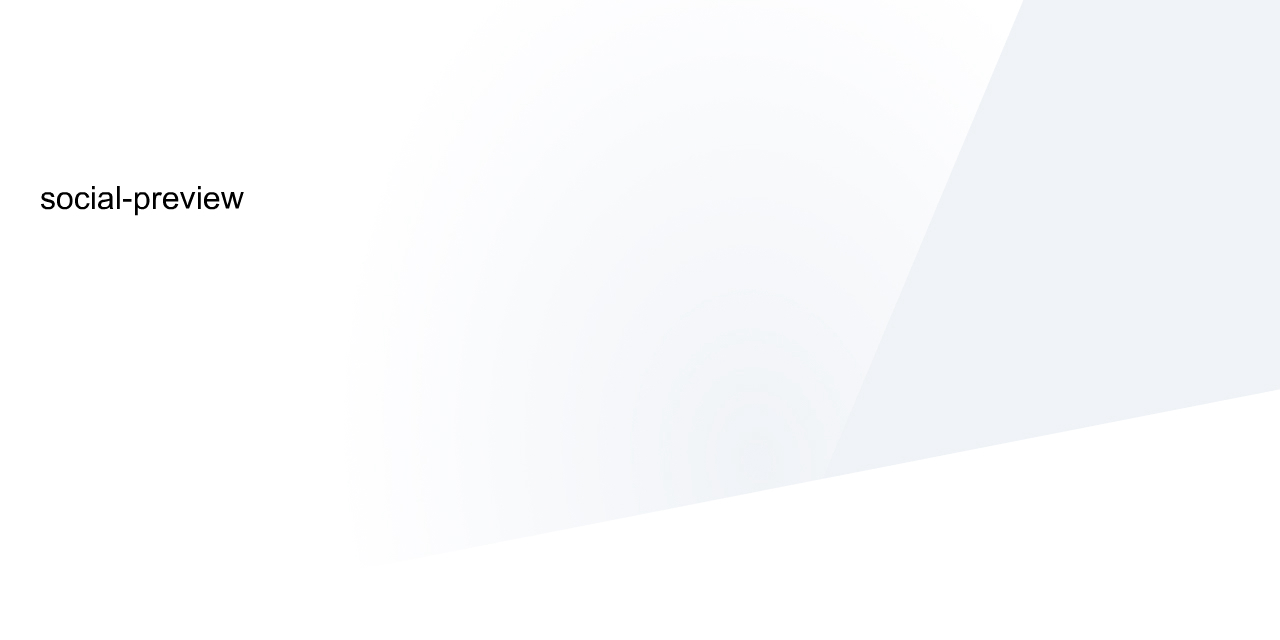
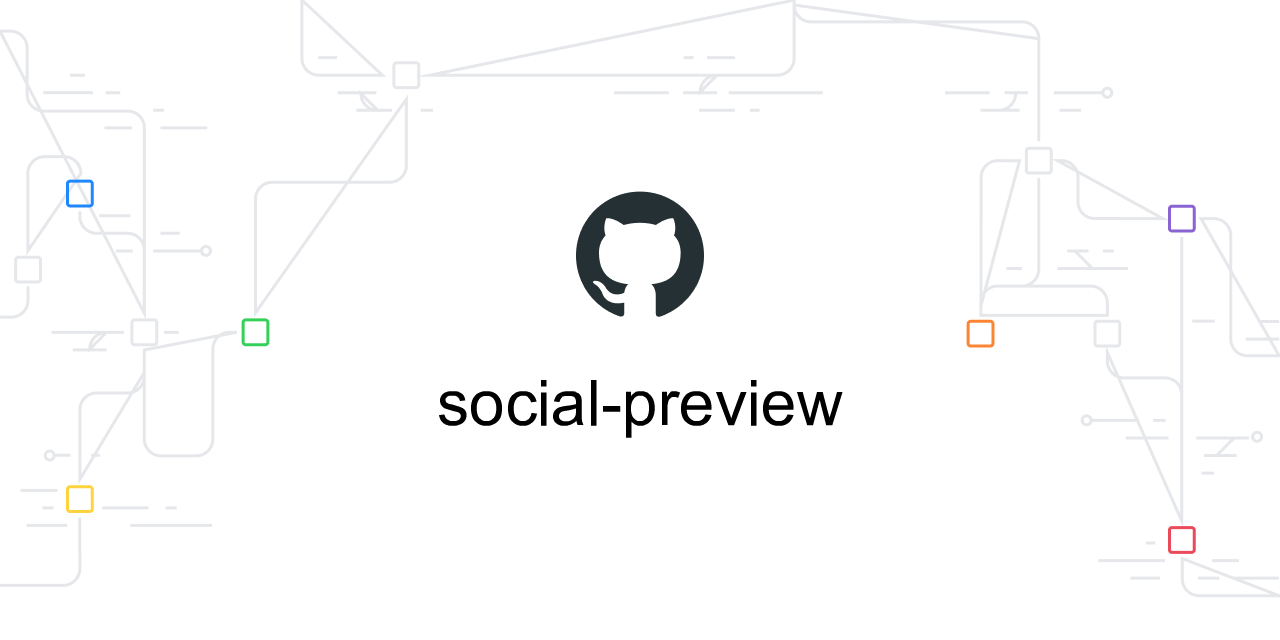
new base image, cleaner code structure

diff --git a/pages/api/github/[...repo].ts b/pages/api/github/[...repo].ts
@@ -19,14 +19,19 @@ export default async (request: NextApiRequest, response: NextApiResponse): Promi
   const output = path.join(path.join(process.cwd(), 'public', 'generated', 'github', repoOwner, `${repoName}.jpg`));
 
   /**
-   * Base Image Template
+   * Image Templates
    */
-  const image = await Jimp.read(path.join(process.cwd(), 'public', 'generated', 'base.jpg'));
+  const baseImage = await Jimp.read(path.join(process.cwd(), 'public', 'generated', 'base.png'));
+  const githubLogo = await Jimp.read(path.join(process.cwd(), 'public', 'generated', 'github-logo.png'));
+  const codercat = await (await Jimp.read(path.join(process.cwd(), 'public', 'generated', 'codercat.png'))).resize(
+    300,
+    300
+  );
 
   /**
    * Font family used for writing
    */
-  const font = await Jimp.loadFont(Jimp.FONT_SANS_32_BLACK);
+  const font = await Jimp.loadFont(Jimp.FONT_SANS_64_BLACK);
 
   /**
    * Dimensions
@@ -39,11 +44,22 @@ export default async (request: NextApiRequest, response: NextApiResponse): Promi
    */
   const PADDING = 40;
 
-  const generatedImage = await image
+  const generatedImage = baseImage
     .resize(WIDTH, HEIGHT)
-    .print(font, PADDING, 140 + PADDING, repoName, WIDTH - PADDING * 2);
+    .print(
+      font,
+      PADDING,
+      368,
+      {
+        text: repoName,
+        alignmentX: Jimp.HORIZONTAL_ALIGN_CENTER,
+      },
+      WIDTH - PADDING * 2,
+      HEIGHT - PADDING * 2
+    )
+    .composite(githubLogo, 576, 190);
 
   generatedImage.writeAsync(output);
 
-  response.status(200).json(output);
+  response.status(200).json({ data: await generatedImage.getBase64Async(Jimp.MIME_PNG) });
 };
